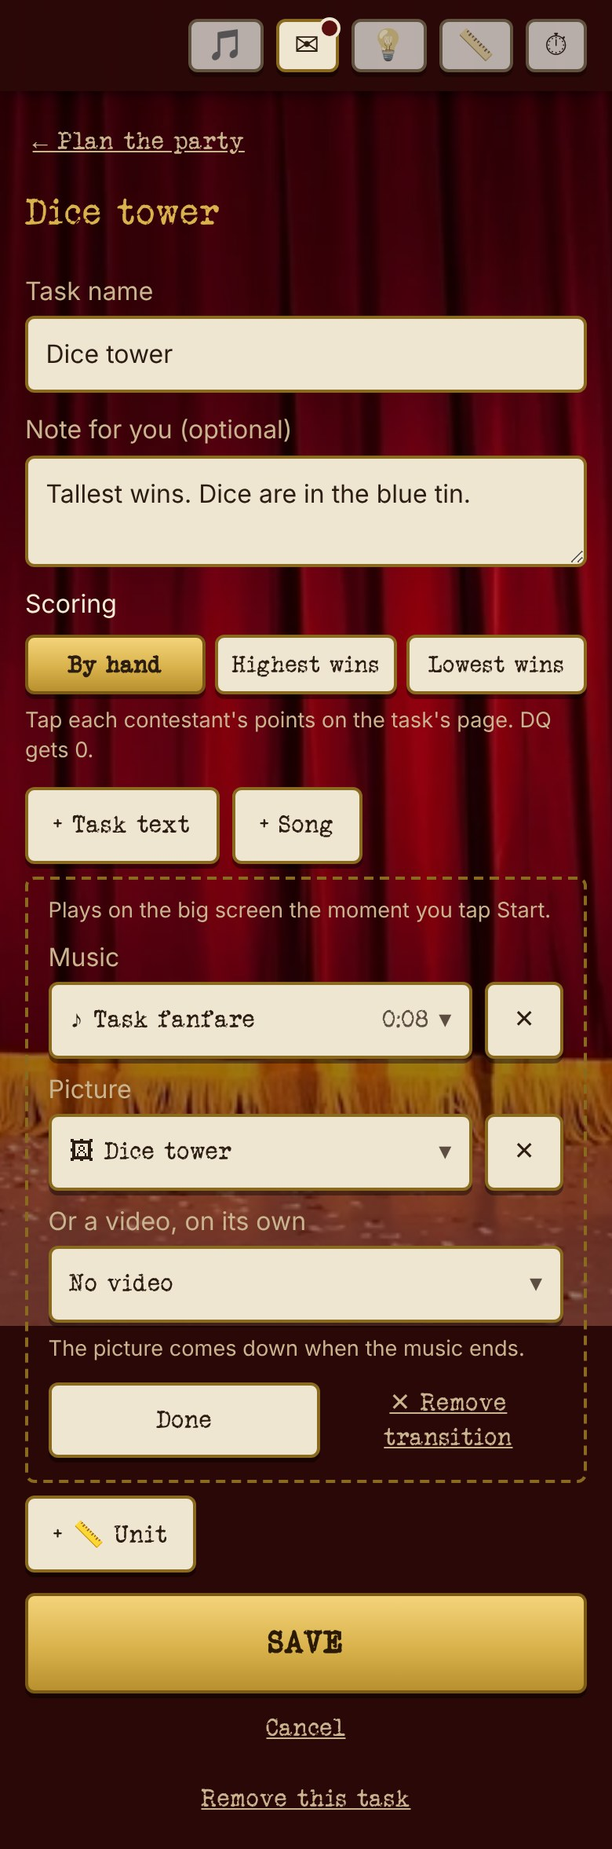
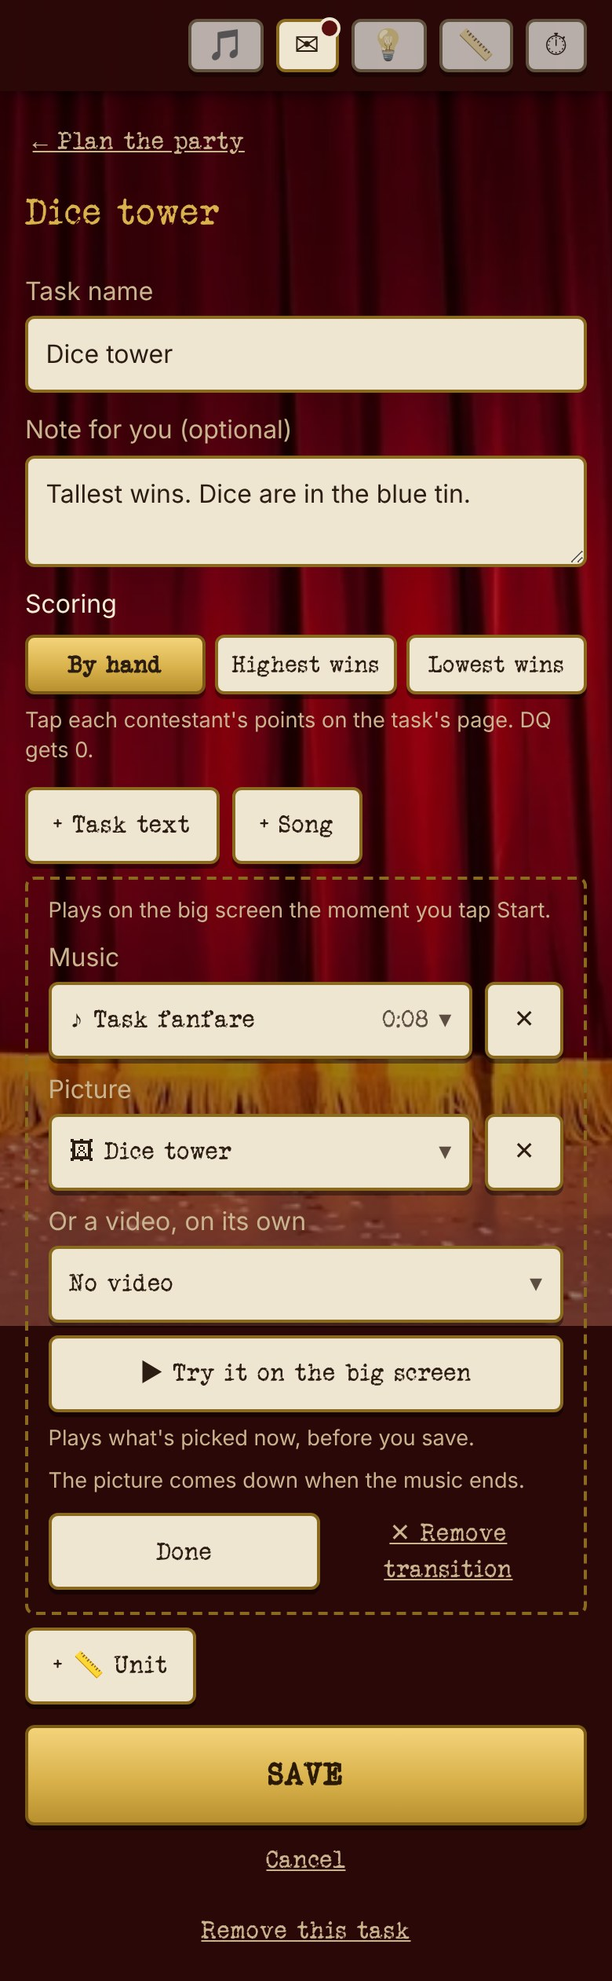
Task ✎: Try it plays what's picked in the Transition part before it's saved
Claude-Session: https://claude.ai/code/session_01CjjuoncHbko52b6sepLhw6

diff --git a/docs/guest-shots/shots.tsx b/docs/guest-shots/shots.tsx
@@ -205,7 +205,7 @@ function build() {
       };
       break;
     }
-    case "host-run-transition": case "host-run-transition-missing": case "tv-sting": case "host-sting": case "host-replay": case "host-edit-transition": {
+    case "host-run-transition": case "host-run-transition-missing": case "tv-sting": case "host-sting": case "host-replay": case "host-edit-transition": case "host-edit-transition-try": {
       picked(); set("begun", true);
       const s = { alex: 3, greg: 4, mei: 2, priya: 5, sam: 3, tom: 1 };
       for (const id of ["t1", "t2", "t3", "t4", "t5"]) Object.assign(tasks[id] as object, { scores: s });
@@ -218,6 +218,7 @@ function build() {
       // On the host's phone, two seconds into the sting: Dice tower's page, the scores down.
       if (shot === "host-sting") { set("sting", { task: "t6", at: Date.now() - 2000 }); set("display", { step: "curtain" }); Object.assign(tasks.t6 as object, { song: "Eye of the Tiger" }); }
       // Long after Start: nothing on, the transition strip waiting on the task's page above its song.
+      if (shot === "host-edit-transition-try") set("sting", { task: "t6", at: Date.now() - 2000, draft: { music: "Task fanfare", picture: "Dice tower.jpg" } });
       if (shot === "host-replay") { set("display", { step: "curtain" }); Object.assign(tasks.t6 as object, { song: "Eye of the Tiger" }); }
       session.jukebox = { tracks: ["Think music", "Eye of the Tiger"], durations: [32, 245], transitions: ["Drumroll", "Task fanfare", "Whoosh"], transitionDurations: [5, 8, 2], transitionPictures: ["Dice tower.jpg", "Halloween title.png", "Sock puppets.jpg"], transitionVideos: ["Drumroll cam.mp4", "Spooky intro.mp4"], transitionVideoDurations: [12, 9], tracksAt: new Date(2026, 9, 21).getTime(), open: true, state: {} };
       break;
@@ -345,7 +346,7 @@ if (joined && shot.startsWith("checkin")) {
   (session.scoreboard as { contestants: Record<string, { uid?: string }> }).contestants[who]!.uid = who;
 }
 if (shot === "checkin-list" || shot === "checkin-confirm") localStorage.setItem("ba.playCode", shot === "checkin-list" ? "" : "");
-if (shot.startsWith("host-")) { localStorage.setItem("ba.remoteCode", CODE); localStorage.setItem("ba.hostTab", JSON.stringify(shot === "host-run" || shot === "host-run-transition" || shot === "host-run-transition-missing" || shot === "host-haul" || shot === "host-arrivals" || shot === "host-reset" ? { view: "show" } : shot === "host-app-game" ? { view: "task", task: "t2" } : shot === "host-sting" || shot === "host-replay" ? { view: "task", task: "t6" } : shot === "host-edit-transition" ? { view: "edit", task: "t6" } : shot === "host-adhoc" ? { view: "task", task: "adhoc" } : shot === "host-secret" ? { view: "tasks" } : shot === "host-secret-title" ? { view: "task", task: "t4" } : shot === "host-secret-edit" ? { view: "edit", task: "t4" } : shot === "host-flipchart-edit" ? { view: "edit", task: "t8" } : shot.startsWith("host-flipchart") ? { view: "task", task: "t8" } : shot === "host-parts-edit" ? { view: "edit", task: "t6" } : shot.startsWith("host-parts") ? { view: "task", task: "t6" } : shot.startsWith("host-onepart") ? { view: "task", task: "t7" } : shot.startsWith("host-plan") ? { view: "plan" } : shot === "host-crop" ? { view: "crop", contestant: "greg" } : shot === "host-prize" || shot === "host-points" ? { view: "task", task: "t3" } : shot === "host-photos" ? { view: "task", task: "t2" } : shot === "host-headshot" ? { view: "task", task: "t1" } : shot === "host-beforeafter" ? { view: "task", task: "t6" } : shot === "host-box" ? { view: "task", task: "t7" } : shot === "host-light" || shot === "host-light-change" ? { view: "light" } : { view: "task", task: "t5" })); }
+if (shot.startsWith("host-")) { localStorage.setItem("ba.remoteCode", CODE); localStorage.setItem("ba.hostTab", JSON.stringify(shot === "host-run" || shot === "host-run-transition" || shot === "host-run-transition-missing" || shot === "host-haul" || shot === "host-arrivals" || shot === "host-reset" ? { view: "show" } : shot === "host-app-game" ? { view: "task", task: "t2" } : shot === "host-sting" || shot === "host-replay" ? { view: "task", task: "t6" } : shot === "host-edit-transition" || shot === "host-edit-transition-try" ? { view: "edit", task: "t6" } : shot === "host-adhoc" ? { view: "task", task: "adhoc" } : shot === "host-secret" ? { view: "tasks" } : shot === "host-secret-title" ? { view: "task", task: "t4" } : shot === "host-secret-edit" ? { view: "edit", task: "t4" } : shot === "host-flipchart-edit" ? { view: "edit", task: "t8" } : shot.startsWith("host-flipchart") ? { view: "task", task: "t8" } : shot === "host-parts-edit" ? { view: "edit", task: "t6" } : shot.startsWith("host-parts") ? { view: "task", task: "t6" } : shot.startsWith("host-onepart") ? { view: "task", task: "t7" } : shot.startsWith("host-plan") ? { view: "plan" } : shot === "host-crop" ? { view: "crop", contestant: "greg" } : shot === "host-prize" || shot === "host-points" ? { view: "task", task: "t3" } : shot === "host-photos" ? { view: "task", task: "t2" } : shot === "host-headshot" ? { view: "task", task: "t1" } : shot === "host-beforeafter" ? { view: "task", task: "t6" } : shot === "host-box" ? { view: "task", task: "t7" } : shot === "host-light" || shot === "host-light-change" ? { view: "light" } : { view: "task", task: "t5" })); }
 // The ⏱ clock's shots open on ⏱ (the task page for one), with the task they came from behind it.
 if (/^host-(cd|sw)-/.test(shot)) {
   localStorage.setItem("ba.hostTab", JSON.stringify(shot === "host-cd-task" ? { view: "task", task: "t6" } : { view: "clock" }));

diff --git a/src/HostRemote.tsx b/src/HostRemote.tsx
@@ -2,6 +2,7 @@ import { QRCodeSVG } from "qrcode.react";
 import { useEffect, useState, type ReactNode } from "react";
 import { ClockStrip } from "./clock/ClockStrip";
 import { asList, asNums, fmt } from "./JukeboxRemote";
+import { stingFiles } from "./sting";
 import { joinUrlFor } from "./firebase";
 import { activeGame } from "./games";
 import { partsOf, wordsOfTask } from "./scoreboard/TaskText";
@@ -23,9 +24,10 @@ export function onScreenLine(session: Session): string {
   const board = session.scoreboard;
   const game = activeGame(session);
   if (noBigScreen(session)) return "not connected yet";
-  const sting = session.sting && board?.tasks?.[session.sting.task];
-  if (sting?.transitionVideo) return `${titleOf(sting)}'s transition video`;
-  if (sting?.transitionImage) return `${titleOf(sting)}'s transition picture`;
+  const sting = stingFiles(session);
+  const stingTask = sting && board?.tasks?.[sting.task];
+  if (stingTask && sting.video) return `${titleOf(stingTask)}'s transition video`;
+  if (stingTask && sting?.picture) return `${titleOf(stingTask)}'s transition picture`;
   if (session.conversion) return "a useless conversion";
   if (session.clock?.shown) return "the clock";
   if (display.step === "scoreboard") {
@@ -76,21 +78,21 @@ export function OnScreen({ code, session, chip, noClock }: { code: string; sessi
  */
 function TransitionStrip({ code, session }: { code: string; session: Session }) {
   const sting = session.sting;
-  const task = sting && session.scoreboard?.tasks?.[sting.task];
+  const files = stingFiles(session);
   const [, tick] = useState(0);
-  const timed = !!task && !!(task.transitionVideo || task.transition);
+  const timed = !!files && !!(files.video || files.music);
   useEffect(() => {
     if (!timed) return;
     const t = window.setInterval(() => tick((n) => n + 1), 1000);
     return () => window.clearInterval(t);
   }, [timed]);
-  if (!task) return null;
+  if (!files || !sting) return null;
   const jukebox = session.jukebox;
-  const [name, length] = task.transitionVideo
-    ? [task.transitionVideo.replace(/\.[^.]+$/, ""), asNums(jukebox?.transitionVideoDurations)[asList(jukebox?.transitionVideos).indexOf(task.transitionVideo)]]
-    : task.transition
-      ? [task.transition, asNums(jukebox?.transitionDurations)[asList(jukebox?.transitions).indexOf(task.transition)]]
-      : [`${(task.transitionImage ?? "").replace(/\.[^.]+$/, "")} picture`, undefined];
+  const [name, length] = files.video
+    ? [files.video.replace(/\.[^.]+$/, ""), asNums(jukebox?.transitionVideoDurations)[asList(jukebox?.transitionVideos).indexOf(files.video)]]
+    : files.music
+      ? [files.music, asNums(jukebox?.transitionDurations)[asList(jukebox?.transitions).indexOf(files.music)]]
+      : [`${(files.picture ?? "").replace(/\.[^.]+$/, "")} picture`, undefined];
   const left = length && sting.at ? Math.max(1, Math.round(length - (Date.now() - sting.at) / 1000)) : undefined;
   return (
     <button className="sb-song now-playing-strip" aria-label={`End ${name}`} onClick={() => void endSting(code)}>

diff --git a/src/scoreboard/TransitionField.tsx b/src/scoreboard/TransitionField.tsx
@@ -1,4 +1,6 @@
 import { FolderPick } from "../SongStrip";
+import { endSting } from "../session";
+import { startSting } from "./data";
 import type { ReactNode } from "react";
 import type { ScoreboardTask, Session } from "../types";
 import { asList, asNums, fmt } from "../JukeboxRemote";
@@ -12,8 +14,10 @@ export const bare = (file: string) => file.replace(/\.[^.]+$/, "");
  * A task's transition in ✎: what plays the moment the host starts it. Music, a picture, both, or a video, each from its own
  * subfolder of the main screen's music folder. A video has its own sound, so picking one clears the other two, and the other way round.
  */
-export function TransitionField({ session, draft, onChange }: { session: Session; draft: TransitionDraft; onChange: (d: TransitionDraft) => void }) {
+export function TransitionField({ code, id, session, draft, onChange }: { code: string; id: string; session: Session; draft: TransitionDraft; onChange: (d: TransitionDraft) => void }) {
   const jukebox = session.jukebox;
+  const picked = !!(draft.music || draft.picture || draft.video);
+  const trying = !!session.sting?.draft && session.sting.task === id;
   const at = jukebox?.tracksAt;
   return (
     <>
@@ -30,6 +34,11 @@ export function TransitionField({ session, draft, onChange }: { session: Session
         items={asList(jukebox?.transitionVideos)} durations={asNums(jukebox?.transitionVideoDurations)}
         onChange={(video) => onChange(video ? { music: "", picture: "", video } : { ...draft, video })}
         empty="Put videos in a Transition videos folder inside the music folder." gone="Not in Transition videos any more. Pick another, or ✕." />
+      <button type="button" className={trying ? "pressed-in" : undefined} disabled={!picked || !jukebox?.open} aria-pressed={trying}
+        onClick={trying ? () => void endSting(code) : () => void startSting(code, id, jukebox?.state?.playing === true, draft)}>
+        {trying ? "⏹ Stop" : "▶ Try it on the big screen"}
+      </button>
+      <p className="muted small">{!jukebox?.open ? "The music folder isn't open on the main screen." : !picked ? "Pick something to try it." : "Plays what's picked now, before you save."}</p>
       <p className="muted small">{draft.video ? "A video has its own sound, so it plays on its own." : draft.picture && !draft.music ? "A picture on its own stays up until you put something else on the big screen." : draft.picture ? "The picture comes down when the music ends." : ""}</p>
     </>
   );

diff --git a/src/scoreboard/TaskEditPage.tsx b/src/scoreboard/TaskEditPage.tsx
@@ -1,4 +1,5 @@
-import { useRef, useState, type ReactNode } from "react";
+import { useEffect, useRef, useState, type ReactNode } from "react";
+import { endSting } from "../session";
 import { draftOf, unitOf, UnitField } from "../conversions/UnitField";
 import { asList, asNums, fmt } from "../JukeboxRemote";
 import { DEFAULT_DRAW, MINUTES, drawOf, editFlipchart, flipchartWords, minutesOf } from "../games/flipchart/data";
@@ -91,6 +92,10 @@ export function TaskEditPage({ code, session, id, onBack }: { code: string; sess
   const [minutes, setMinutes] = useState(minutesOf(task));
   const [transition, setTransition] = useState<TransitionDraft>({ music: task?.transition ?? "", picture: task?.transitionImage ?? "", video: task?.transitionVideo ?? "" });
   const [open, setOpen] = useState<"text" | "song" | "transition" | "unit">();
+  // A "Try it" still on when the host leaves this page (Save, Cancel, ←) ends with it: a lone picture would otherwise stay on the big screen.
+  const trying = useRef(false);
+  trying.current = !!session.sting?.draft && session.sting.task === id;
+  useEffect(() => () => { if (trying.current) void endSting(code); }, [code]);
   if (!task) {
     return (
       <div className="box-setup scoreboard-remote plan">
@@ -211,7 +216,7 @@ export function TaskEditPage({ code, session, id, onBack }: { code: string; sess
           <Extra label="Transition" open={open === "transition"} onOpen={() => setOpen("transition")} onClose={() => setOpen(undefined)}
             onClear={clear(() => setTransition({ music: "", picture: "", video: "" }))}
             summary={transition.music || transition.picture || transition.video ? <>Transition<span className="muted small"> · {transitionSummary(session, transition)}</span></> : undefined}>
-            <TransitionField session={session} draft={transition} onChange={setTransition} />
+            <TransitionField code={code} id={id} session={session} draft={transition} onChange={setTransition} />
           </Extra>
         )}
         {!tiebreaker && task.game !== "light" && (

diff --git a/src/Screen.tsx b/src/Screen.tsx
@@ -15,6 +15,7 @@ import { ClockStage } from "./clock/ClockStage";
 import { removeHostPin, resetController, setDisplay, setGame, showContestant } from "./session";
 import type { SubmissionStatus } from "./submission";
 import type { Player, Session } from "./types";
+import { stingFiles } from "./sting";
 import { StingStage } from "./StingStage";
 import { stingPictureUrl } from "./stingPictures";
 
@@ -52,11 +53,11 @@ export function Screen({ code, session, viewOnly = false, footer }: {
   }, [photoUrls]);
 
   // A task's sting picture covers everything while the sting plays, then gives way to what starting the task brought up.
-  const stingTask = session.sting && session.scoreboard?.tasks?.[session.sting.task];
-  const stingImage = stingTask && !stingTask.transitionVideo && stingPictureUrl(stingTask.transitionImage);
+  const sting = stingFiles(session);
+  const stingImage = sting && !sting.video && stingPictureUrl(sting.picture);
   if (stingImage) return <StingStage src={stingImage} />;
   // Music alone, or a video (the main screen plays it over everything): the curtain, so a game's board waits for the sting to end.
-  if (!viewOnly && stingTask && (stingTask.transition || stingTask.transitionVideo)) return <Curtain code={code} session={session}>{null}</Curtain>;
+  if (!viewOnly && sting && (sting.music || sting.video)) return <Curtain code={code} session={session}>{null}</Curtain>;
   // A useless conversion covers whatever is on, until the host takes it down or puts something else up.
   if (session.conversion) return <ConversionStage conversion={session.conversion} />;
   // So does the ⏱ clock, when the host shows it.

diff --git a/src/scoreboard/data.ts b/src/scoreboard/data.ts
@@ -266,8 +266,11 @@ export const setTiebreakerWinner = (code: string, contestant: string | null) =>
   set(at(code, "tiebreaker/winner"), contestant);
 
 /** Host: starts a task's transition on the big screen. The jukebox stops, so a song never plays under it. */
-export const startSting = (code: string, task: string, stopJukebox: boolean) =>
-  update(ref(db(), `sessions/${code}`), { sting: { task }, ...(stopJukebox && { "jukebox/state/playing": false }) });
+export const startSting = (code: string, task: string, stopJukebox: boolean, draft?: { music: string; picture: string; video: string }) =>
+  update(ref(db(), `sessions/${code}`), {
+    sting: { task, ...(draft && { draft: { music: draft.music || null, picture: draft.picture || null, video: draft.video || null } }) },
+    ...(stopJukebox && { "jukebox/state/playing": false }),
+  });
 
 /** A task's transition: music and/or a picture, or a video on its own. Empty ones are removed. */
 export const editTransition = (code: string, id: string, t: { music: string; picture: string; video: string }) =>

diff --git a/src/SongStrip.tsx b/src/SongStrip.tsx
@@ -1,6 +1,7 @@
 import { useState } from "react";
 import { asList, asNums, fmt } from "./JukeboxRemote";
 import { setJukeboxState } from "./session";
+import { stingFiles } from "./sting";
 import type { Session } from "./types";
 
 /**
@@ -15,8 +16,8 @@ export function SongStrip({ code, session, song }: { code: string; session: Sess
   const i = tracks.indexOf(song);
   const state = jukebox?.state ?? {};
   const playing = i >= 0 && state.current === i && state.playing === true;
-  const stingTask = session.sting && session.scoreboard?.tasks?.[session.sting.task];
-  const stingSounds = !!stingTask && !!(stingTask.transition || stingTask.transitionVideo);
+  const sting = stingFiles(session);
+  const stingSounds = !!sting && !!(sting.music || sting.video);
   const problem = !jukebox?.open ? "music folder not open" : i < 0 ? "not in the music folder" : stingSounds ? "after the transition" : undefined;
   const toggle = () => void setJukeboxState(code, playing ? { playing: false } : { current: i, playing: true, repeat: false });
   return (

diff --git a/src/types.ts b/src/types.ts
@@ -461,9 +461,9 @@ export interface Session {
   /**
    * The task whose transition is on after the host started it: its music plays, its picture or video covers the big screen.
    * `at` is when the main screen started it. Music (with or without a picture) and a video end it themselves; a picture on
-   * its own stays until the host puts something else up. The host's strip ends it at once.
+   * its own stays until the host puts something else up. The host's strip ends it at once. `draft` is a "Try it" in ✎: what's picked there, not yet saved, plays instead of the task's own.
    */
-  sting?: { task: string; at?: number };
+  sting?: { task: string; at?: number; draft?: { music?: string; picture?: string; video?: string } };
   /** The ⏱ clock the host set, and maybe has on the big screen. */
   clock?: ClockState;
   /** How the 📏 converter explains a result: metric (the default) or imperial, in feet and inches. */

diff --git a/src/sting.ts b/src/sting.ts
@@ -1,0 +1,16 @@
+import type { Session } from "./types";
+
+/** What's on the big screen as a task's transition: its music, picture or video (a video stands alone). */
+export interface StingFiles { task: string; music?: string; picture?: string; video?: string }
+
+/**
+ * The transition that's on now, if one is. A real Start plays what the task has saved; "Try it" in ✎ carries what's picked there
+ * (`draft`) before it's saved, and that is what plays.
+ */
+export function stingFiles(session: Session): StingFiles | undefined {
+  const s = session.sting;
+  if (!s) return undefined;
+  const t = session.scoreboard?.tasks?.[s.task];
+  const from = s.draft ?? { music: t?.transition, picture: t?.transitionImage, video: t?.transitionVideo };
+  return from.video ? { task: s.task, video: from.video } : { task: s.task, music: from.music || undefined, picture: from.picture || undefined };
+}

diff --git a/src/StingDriver.tsx b/src/StingDriver.tsx
@@ -1,5 +1,6 @@
 import { useEffect, useRef, useState } from "react";
 import { endSting, markSting } from "./session";
+import { stingFiles } from "./sting";
 import { hasStingMusic, hasStingVideo, stingMusicFile, stingVideoFile } from "./stingPictures";
 import type { Session } from "./types";
 
@@ -11,9 +12,9 @@ import type { Session } from "./types";
  */
 export function StingDriver({ code, session }: { code: string; session: Session }) {
   const sting = session.sting;
-  const task = sting && session.scoreboard?.tasks?.[sting.task];
-  const music = task?.transitionVideo ? undefined : task?.transition;
-  const video = task?.transitionVideo;
+  const files = stingFiles(session);
+  const music = files?.music;
+  const video = files?.video;
   const audioRef = useRef<HTMLAudioElement>(null);
   const [videoUrl, setVideoUrl] = useState<string>();
   const on = !!sting;

diff --git a/docs/style-guide.md b/docs/style-guide.md
@@ -233,7 +233,7 @@ See: [guest-home-waiting.jpg](screens/guest-home-waiting.jpg), [guest-home-prize
   6. **Setup file**: at the very bottom, a row (`.setup-file`, a summary line like the envelopes' one): **Import** and **Export** links on the right (`.summary-links`) and a quiet hint under it, "Tasks, tiebreaker, secret tasks and the light. Not guests or points." ([host-setup-file.jpg](screens/host-setup-file.jpg)). Import opens the file picker, then a check in place under the row (`.sb-add`: an h3, "Nothing changes until you tap Import.", the read-only `.run-list` of the tasks as they'll be with unchanged / new / updated / kept: has points on the right, quiet lines for Removed, Tiebreaker, Secret tasks, The light and songs missing from the music folder, gold "Import N tasks", quiet Cancel); a wrong file shows one line and Cancel instead ([host-setup-import-check.jpg](screens/host-setup-import-check.jpg)).
   On a wide iPad (≥1000px) the tasks and contestants sit side by side, with the party line and the envelopes line across.
 - **Summary line** (`.summary-line`): a line saying what's set, in typewriter, with a quiet "Change" (or ✎) at the right that opens just that part in place. Used for the party, the tiebreaker, the envelopes and a task's optional parts. Anything optional that isn't set yet is a paper "+" chip instead (`.chip-add`: "+ Task text", "+ Song", "+ 📏 Unit"). Only one part is open at a time (`.extra-open`, a dashed gold outline), with Done and "✕ Remove …" inside.
-- **A task's ✎ page** (`TaskEditPage.tsx`): its own page, "← Plan the party", so the list never jumps. Always there: the name (for an app task "Photos: name it (optional)"), the note and, for a live task, "Scoring". Then the optional parts as summary lines or chips: "Task text · LIVE TASK · Build the tallest…", "♪ Song · Eye of the Tiger · 4:05", "Transition · ♪ Task fanfare · 0:08 · 🖼 Dice tower" (music, a picture, both, or a video on its own: three pickers in one open part, [task-edit-transition.jpg](screens/task-edit-transition.jpg)), "📏 Measured in · cm · one is 1 cm" (🔊 dB meter, with its "DQ if louder than", for sound tasks). Gold Save, quiet Cancel and "Remove this task" below; the tiebreaker has no Scoring, unit or Remove.
+- **A task's ✎ page** (`TaskEditPage.tsx`): its own page, "← Plan the party", so the list never jumps. Always there: the name (for an app task "Photos: name it (optional)"), the note and, for a live task, "Scoring". Then the optional parts as summary lines or chips: "Task text · LIVE TASK · Build the tallest…", "♪ Song · Eye of the Tiger · 4:05", "Transition · ♪ Task fanfare · 0:08 · 🖼 Dice tower" (music, a picture, both, or a video on its own: three pickers in one open part, then a paper "▶ Try it on the big screen" that plays what's picked, saved or not, on the big screen; pressed in, "⏹ Stop", while it plays, and it ends when the host leaves the page. [task-edit-transition.jpg](screens/task-edit-transition.jpg), [task-edit-transition-try.jpg](screens/task-edit-transition-try.jpg)), "📏 Measured in · cm · one is 1 cm" (🔊 dB meter, with its "DQ if louder than", for sound tasks). Gold Save, quiet Cancel and "Remove this task" below; the tiebreaker has no Scoring, unit or Remove.
 - **Cropping a headshot** (`CropPage.tsx`): its own page, "← Plan the party", reached from Crop on a contestant's row; also how to fix one mid-party. "Greg's headshot", a hint ("Drag the frame onto Greg's face, or a corner to resize."), then the whole photo in a 3px `--gold` border with the scoreboard's window over it: a `--gold-bright` outline, the rest dimmed, and a gold dot on each corner inside a finger-sized patch. Dragging inside moves the window; dragging a corner resizes it about the opposite corner, always in the window's shape (pinch works too, unadvertised). The window moves over a still photo, so the host sees what's left out. Beside it, the scoreboard's own frame (`frame.png`) shows the crop live, "On the scoreboard", and a quiet "Back to the middle". Gold Save, quiet Cancel. See: [headshot-crop-choice.jpg](screens/headshot-crop-choice.jpg), [headshot-crop-page.jpg](screens/headshot-crop-page.jpg), [headshot-crop-saved.jpg](screens/headshot-crop-saved.jpg).
 - **Size by use:** `.steps` (big) only for what the stage shows right now; `.choices` (compact) for settings; toggles for on/off. If a section needs a paragraph of explanation, keep it one `.muted.small` line.
 - `.steps` grids (`.two`, `.three`) for big side-by-side buttons; `.active` shows what the stage is currently showing.

diff --git a/README.md b/README.md
@@ -58,6 +58,6 @@ gcloud storage buckets update gs://before-and-after-6a096.firebasestorage.app --
 ## Jukebox
 Music is **never uploaded or committed**: the main-screen PC reads MP3s straight from a local folder. On the main screen (Chrome/Edge), click **🎵 Choose music folder** once and pick the folder (subfolders are included). The song list is shared with the host phone's **🎵 Jukebox** tab, which has Play/Pause, a Repeat toggle, volume, and tap-to-play. A song plays once (then stops) or repeats until you pause or pick another; it never advances by itself. Music pauses automatically while a video plays or the Noisemaster board is up.
 
-**Task songs:** ✎ on any task on the run of show has "Song (optional)", picked from the jukebox's song list (the last one the main screen read, so it works with the PC off). The task's row and its page then carry a strip that plays that song once on the big screen, or pauses it. It's greyed out while the main screen's music folder isn't open, or if the song has left the folder. **Task transitions:** ✎ → **Transition** plays something on the big screen the moment you tap Start on a task, before you hand out the envelope: music, a picture, music and a picture, or a video on its own. Put the files in three subfolders of the music folder (like Noisemaster's, the jukebox leaves them out): `Transition music` (short tracks), `Transition pictures` (jpg, png, webp, gif) and `Transition videos` (mp4, webm, mov). Choose the music folder again on the main screen after adding files; the "Raise the curtain" screen lists how many it found in each. Music plays once and stops (the jukebox stops too, and the task's song is greyed out until the transition is over); a picture comes down when the music ends; a picture on its own stays up until you put something else on the big screen; a video plays full screen with its own sound. The strip under "On the big screen" shows what's on, and one tap on it ends the transition. The task's page keeps a strip to play it again, as often as you like. The main screen reads the files into memory when it reads the folder, so a transition starts at once even from OneDrive (videos over 200 MB are read when they play). Start always works: a file that's missing is skipped, and the Start button says so beforehand.
+**Task songs:** ✎ on any task on the run of show has "Song (optional)", picked from the jukebox's song list (the last one the main screen read, so it works with the PC off). The task's row and its page then carry a strip that plays that song once on the big screen, or pauses it. It's greyed out while the main screen's music folder isn't open, or if the song has left the folder. **Task transitions:** ✎ → **Transition** plays something on the big screen the moment you tap Start on a task, before you hand out the envelope: music, a picture, music and a picture, or a video on its own. Put the files in three subfolders of the music folder (like Noisemaster's, the jukebox leaves them out): `Transition music` (short tracks), `Transition pictures` (jpg, png, webp, gif) and `Transition videos` (mp4, webm, mov). Choose the music folder again on the main screen after adding files; the "Raise the curtain" screen lists how many it found in each. Music plays once and stops (the jukebox stops too, and the task's song is greyed out until the transition is over); a picture comes down when the music ends; a picture on its own stays up until you put something else on the big screen; a video plays full screen with its own sound. The strip under "On the big screen" shows what's on, and one tap on it ends the transition. In ✎, "▶ Try it on the big screen" plays what's picked before you save, so you can check the track. The task's page keeps a strip to play it again, as often as you like. The main screen reads the files into memory when it reads the folder, so a transition starts at once even from OneDrive (videos over 200 MB are read when they play). Start always works: a file that's missing is skipped, and the Start button says so beforehand.
 
 Chrome remembers the folder but may ask for one click to re-grant access after a refresh ("Reconnect music folder"). Avoid picking `Downloads` or your whole home folder itself — Chrome refuses those; a dedicated folder like `C:\Music\BeforeAndAfter` works.
